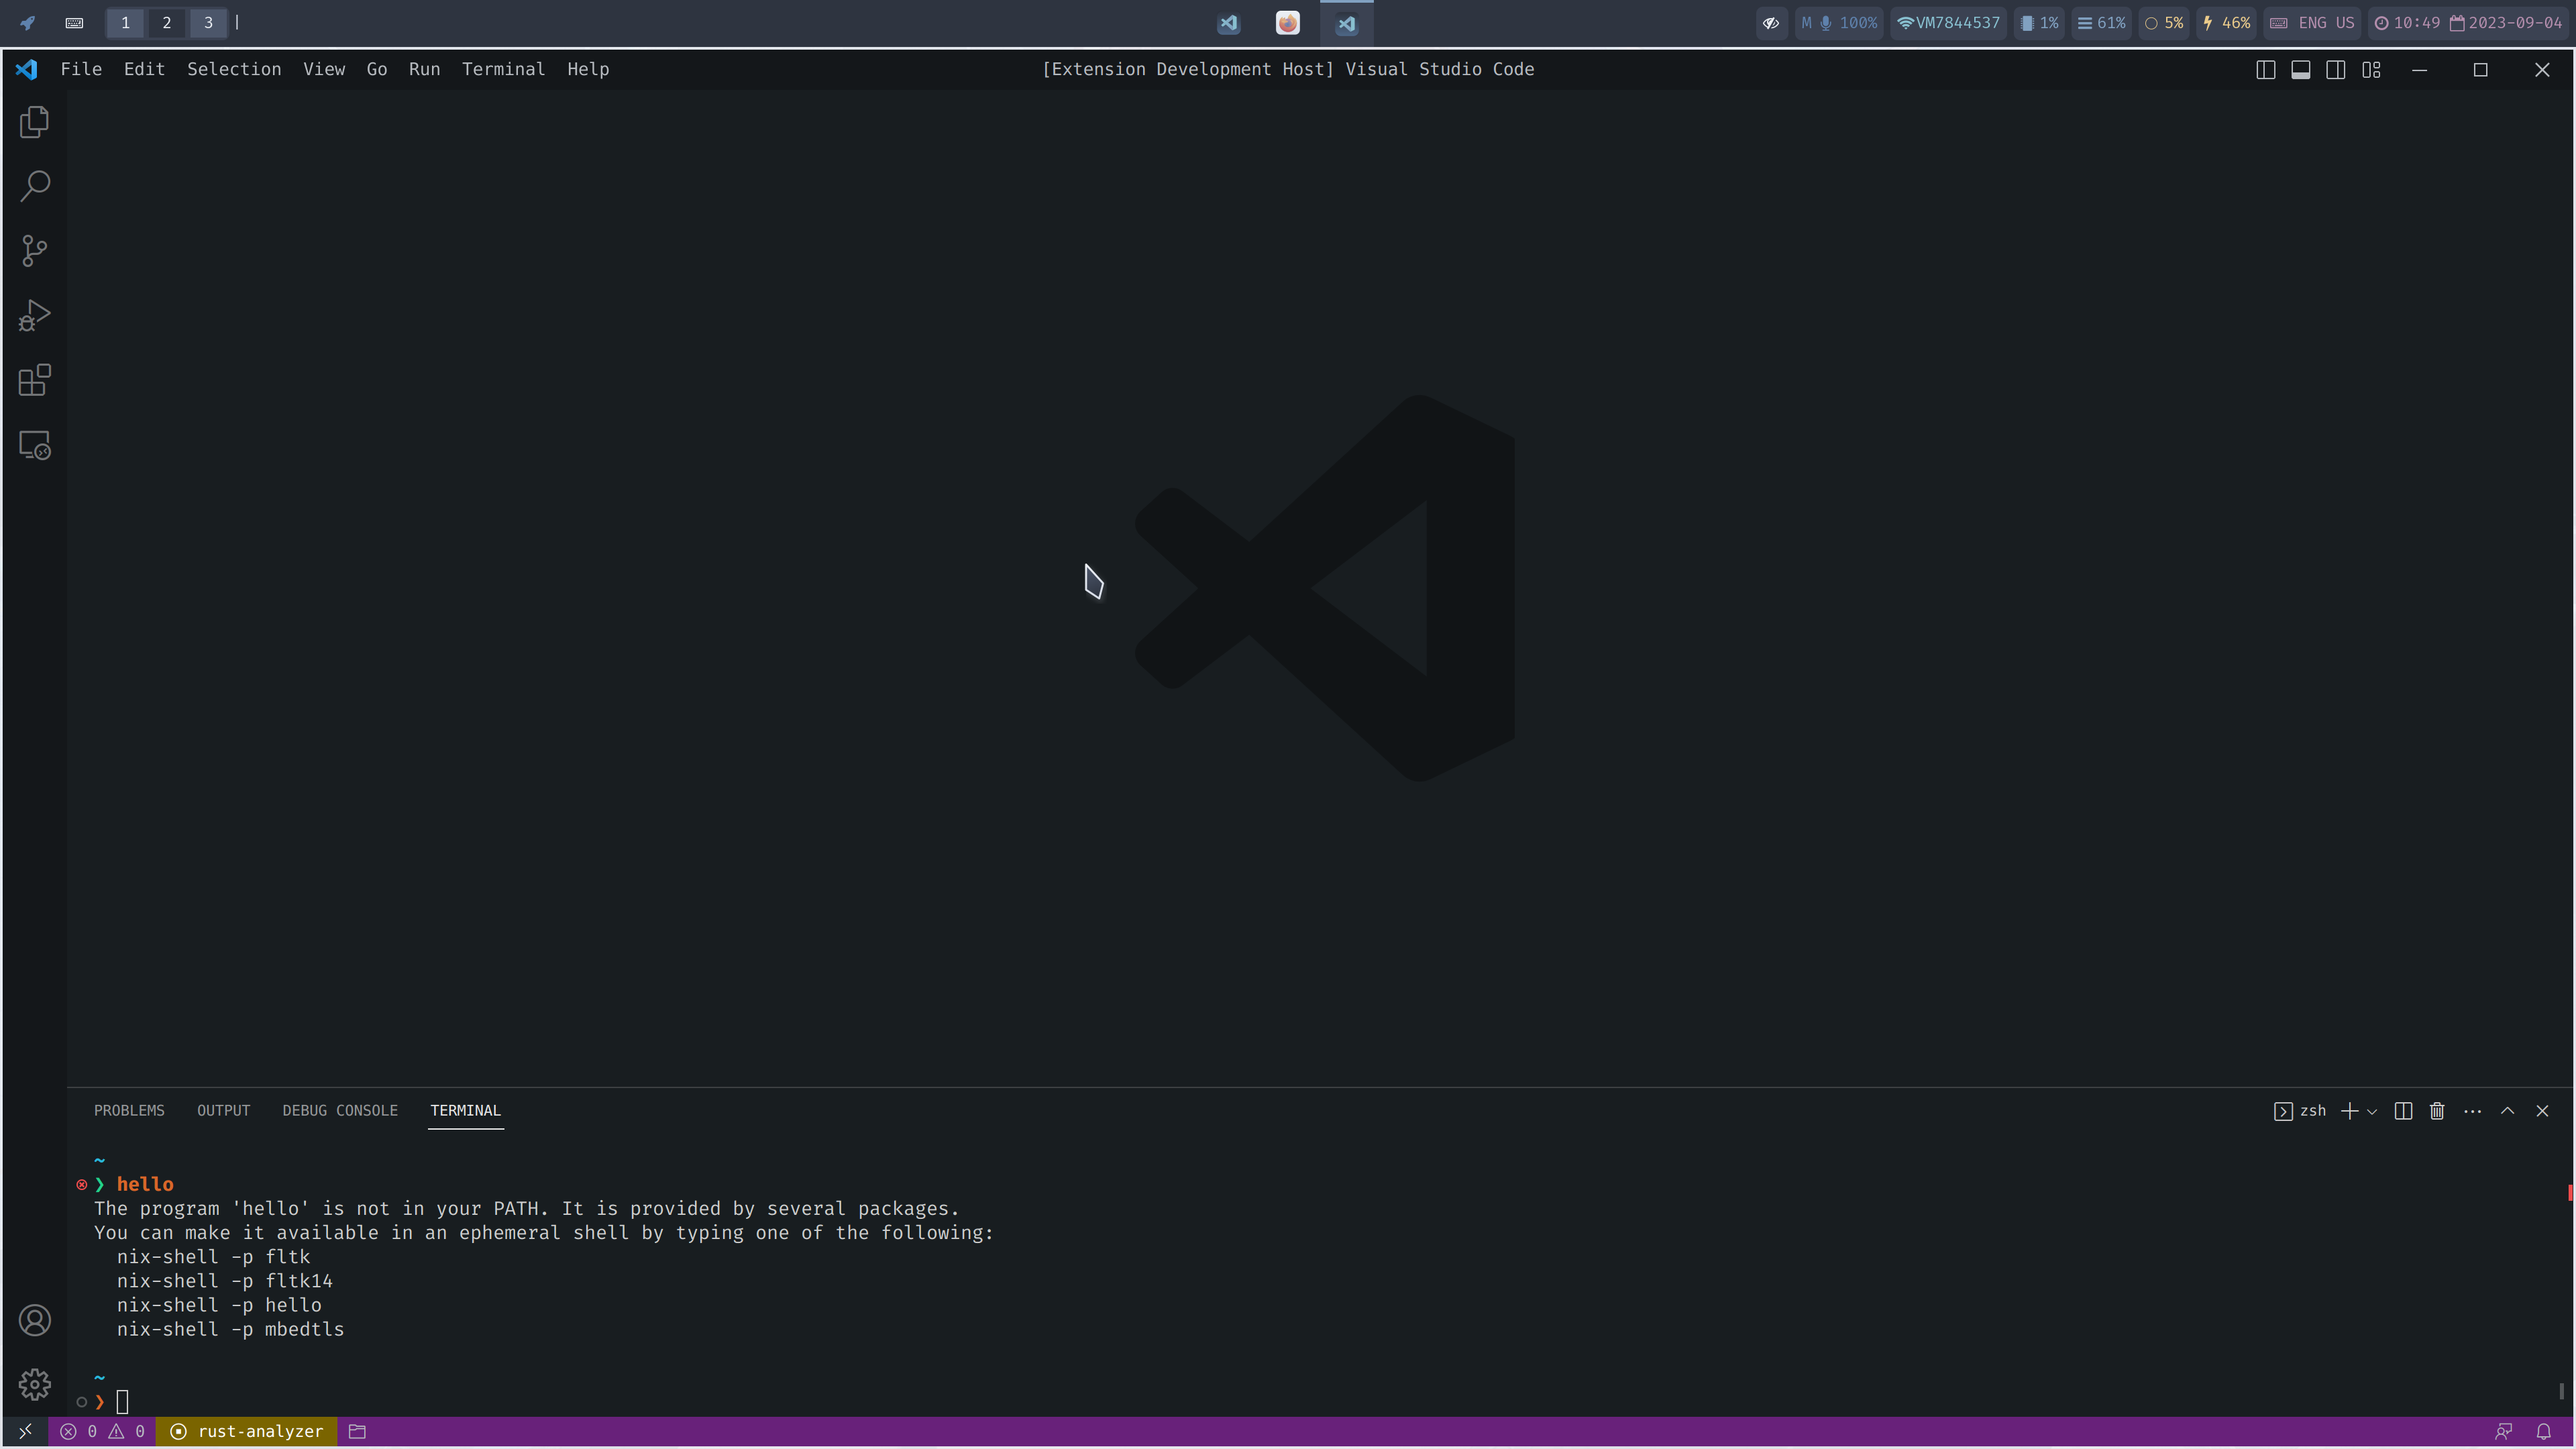
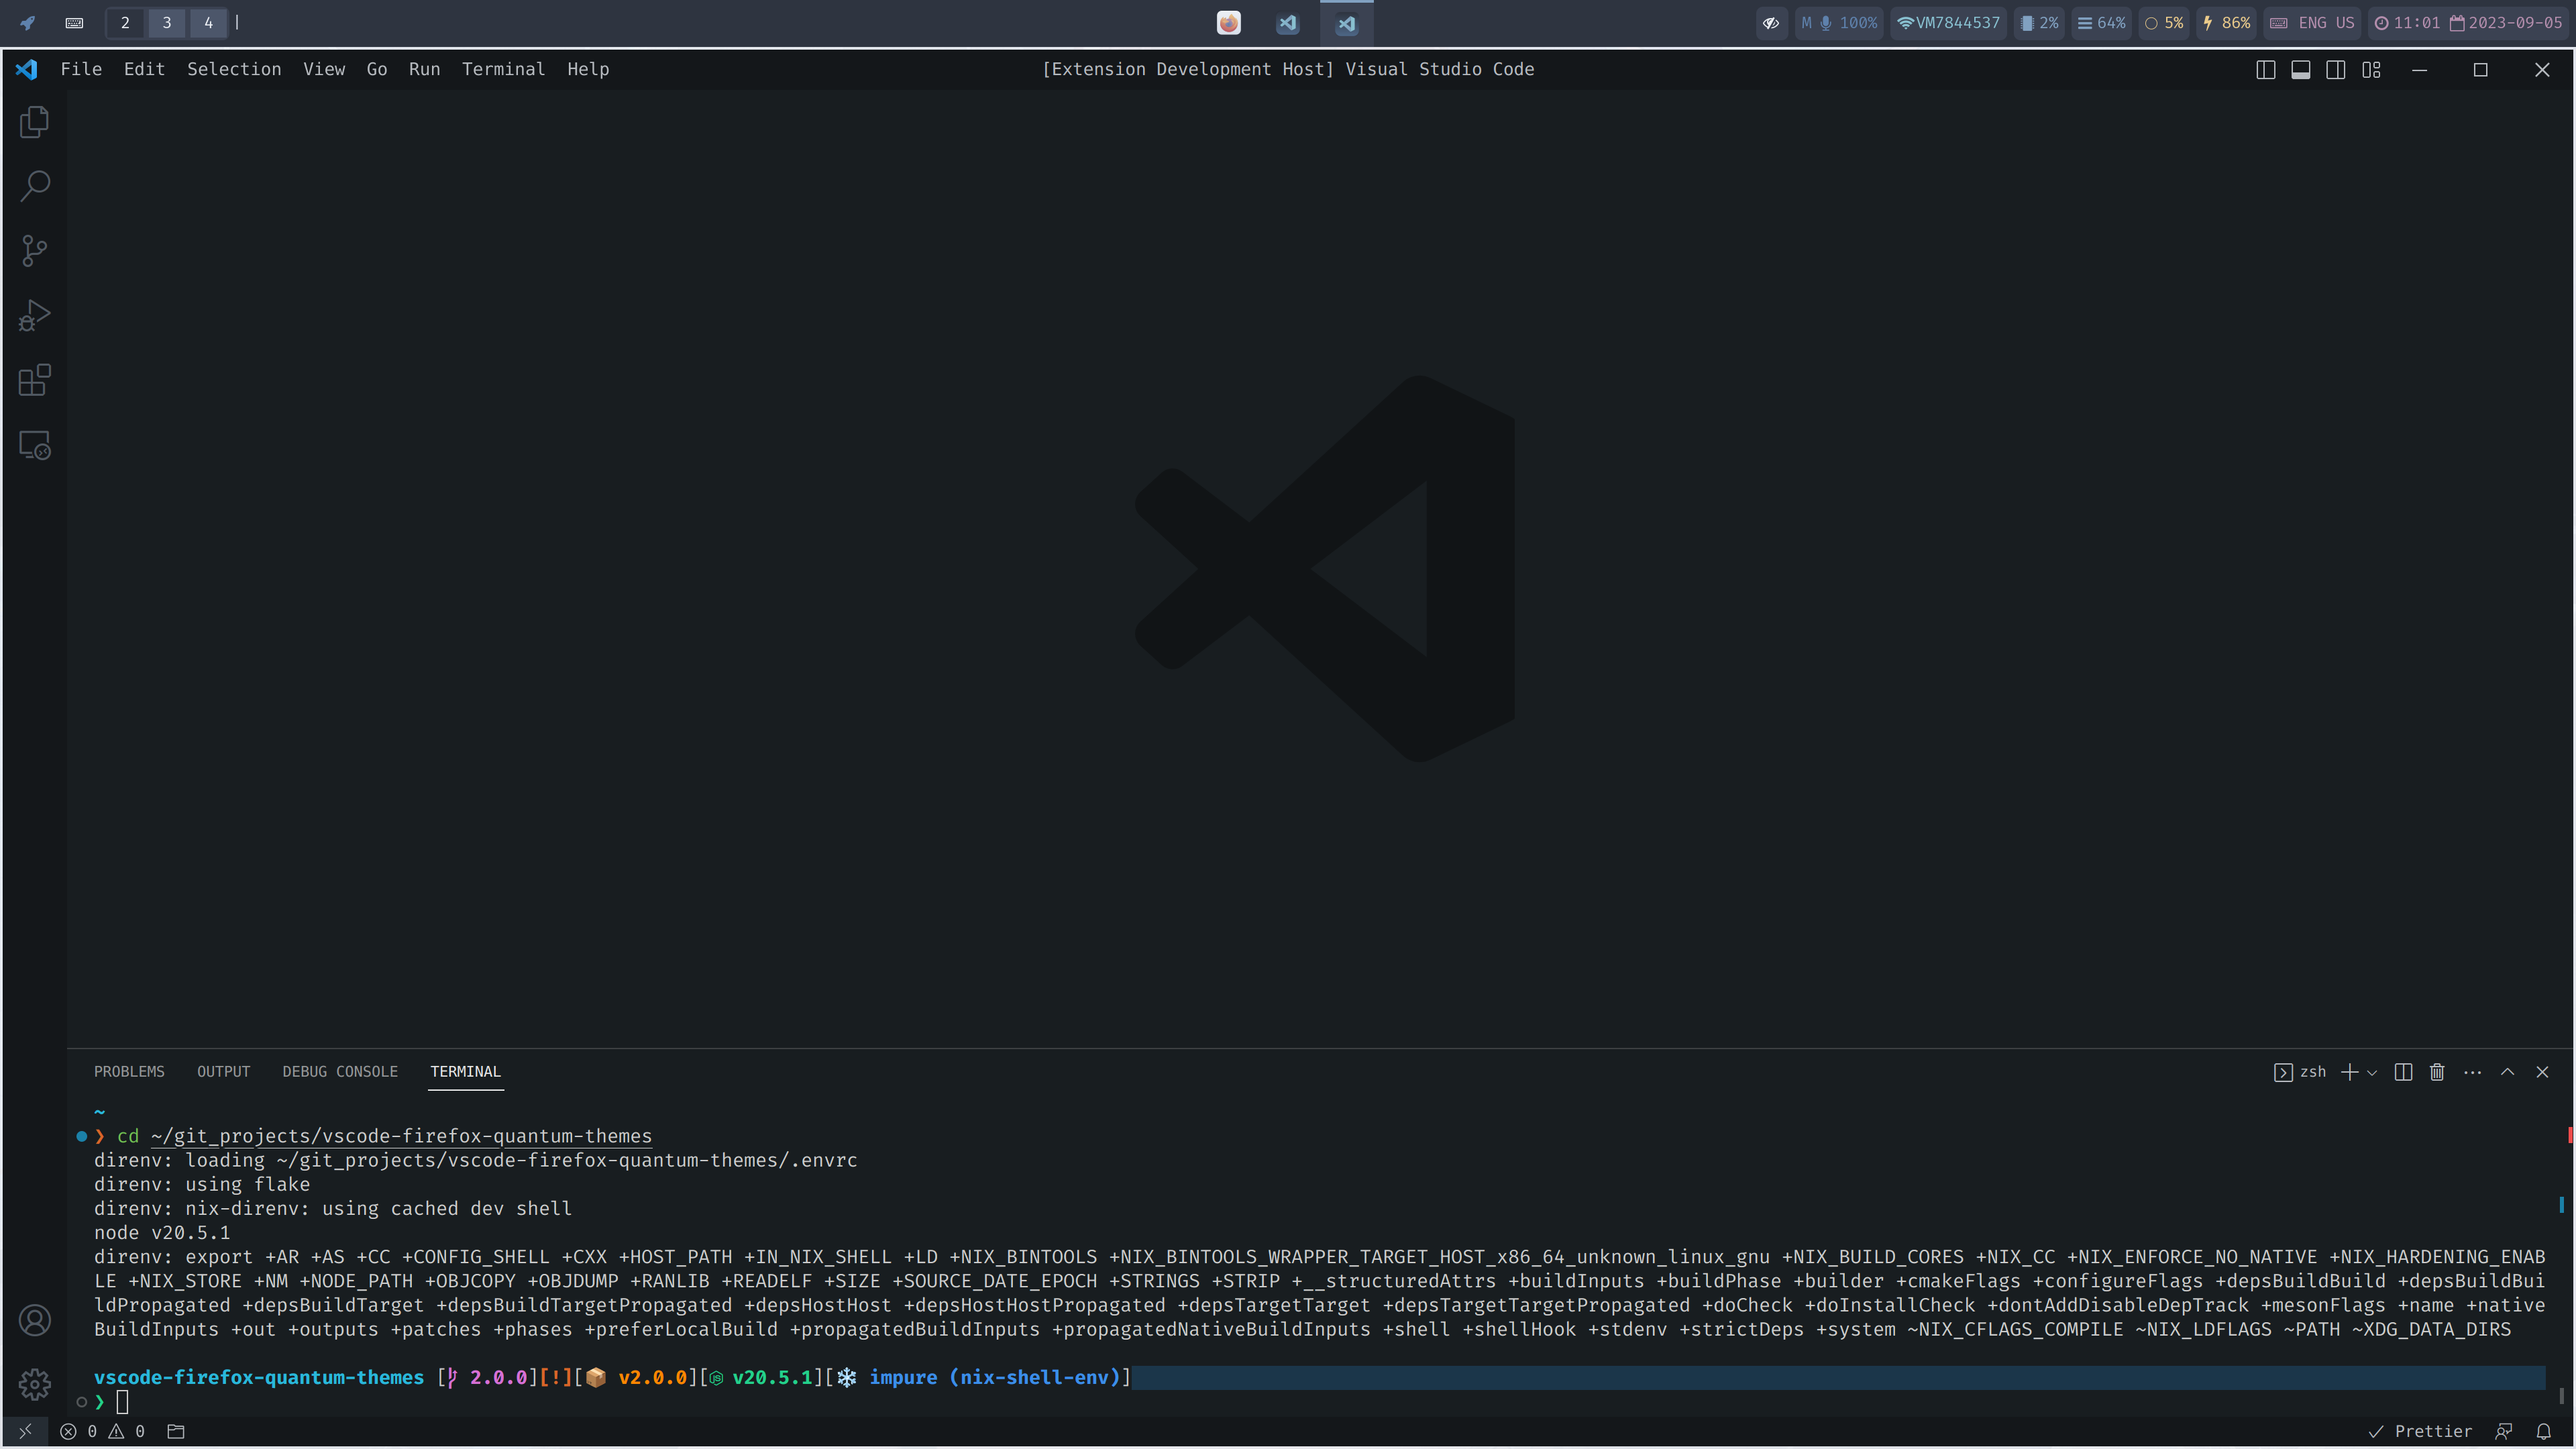
Fix screenshots and some new

diff --git a/scripts/generate.ts b/scripts/generate.ts
@@ -28,16 +28,18 @@ function sortAlphabetically(keys: { [attr: string]: string }): {
   return sorted;
 }
 
+// Generate colors
 coloursattr.forEach(function (element, index) {
   element.forEach(function (attr) {
     generateColours(attr, coloursarray[index]);
   });
 });
 
-//tokenColors
+// Generate tokenColors
 tokenColoursAttr.forEach(function (element, index) {
   generateTokenColours(element.name, element.scope, coloursTokenArray[index]);
 });
+// === BEGIN GENERATION OF CUSTOM COLOURS ===
 
 generateColours("editorBracketMatch.background", coloursarray[1]);
 generateColours("editorBracketMatch.border", comment);
@@ -130,6 +132,8 @@ generateTokenColours(
   ["source.js constant.other.object.key.js string.unquoted.label.js"],
   coloursTokenArray[2]
 );
+// === END COLOUR GENERATION ===
+
 // Making the files
 const paths: string[] = [
   path.resolve(__dirname, "../themes/Quantum Dark.json"),
@@ -149,6 +153,7 @@ qd.tokenColors.forEach((obj) => {
 ql.tokenColors.forEach((obj) => {
   obj.scope = obj.scope.sort();
 });
-// console.log(qd_colors_sorted);
+
+// Write theme files to ./themes
 fs.writeFileSync(paths[0], JSON.stringify(qd, null, "\t"));
 fs.writeFileSync(paths[1], JSON.stringify(ql, null, "\t"));

diff --git a/SCREENSHOTS.md b/SCREENSHOTS.md
@@ -1,52 +1,72 @@
 ## Screenshots:
 
-Here are the latest screenshots of this theme. This is in the layout of `Dark` on the left and `Light` on the right
-Please note, the code presented here is 100% not mine, and was manually typed out from google images. If you recognise a piece of code which you do not want to be displayed, please let me know and I will edit the screenshot.
+Here are the latest screenshots of this theme. This is in the layout of `Dark` on the right and `Light` on the left.
+Please note, the code presented here is 100% not mine, and was copied from open-source projects. All sources to these projects have been credited.
 
-Batch\
-![Batch Screenshot](https://github.com/beastdestroyer/vscode-firefox-quantum-themes/blob/master/screenshots/bat.png)
+### Batch
 
-C\
-![C Screenshot](https://github.com/beastdestroyer/vscode-firefox-quantum-themes/blob/master/screenshots/c.png)
+![Batch Screenshot](./screenshots/bat.png)
 
-C++\
-![C++ Screenshot](https://github.com/beastdestroyer/vscode-firefox-quantum-themes/blob/master/screenshots/cpp.png)
+[Batch code source](https://github.com/Archive-projects/Batch-File-examples/blob/master/files/tf5.bat)
 
-C#\
-![C# Screenshot](https://github.com/beastdestroyer/vscode-firefox-quantum-themes/blob/master/screenshots/cpp.png)
+### C
 
-CSS\
-![CSS Screenshot](https://github.com/beastdestroyer/vscode-firefox-quantum-themes/blob/master/screenshots/css.png)
+![C Screenshot](./screenshots/c.png)
 
-Clojure\
-![Clojure Screenshot](https://github.com/beastdestroyer/vscode-firefox-quantum-themes/blob/master/screenshots/clojure.png)
+### C++
 
-CoffeeScript\
-![CoffeeScript Screenshot](https://github.com/beastdestroyer/vscode-firefox-quantum-themes/blob/master/screenshots/coffee.png)
+![C++ Screenshot](./screenshots/cpp.png)
 
-Dart\
-![Dart Screenshot](https://github.com/beastdestroyer/vscode-firefox-quantum-themes/blob/master/screenshots/dart.png)
+### C#
 
-HTML\
-![HTML Screenshot](https://github.com/beastdestroyer/vscode-firefox-quantum-themes/blob/master/screenshots/html.png)
+![C# Screenshot](./screenshots/cpp.png)
 
-JSON/C\
-![JSON Screenshot](https://github.com/beastdestroyer/vscode-firefox-quantum-themes/blob/master/screenshots/json.png)
+[C# code source](https://github.com/dockersamples/example-voting-app/blob/main/worker/Program.cs)
 
-JavaScript/React\
-![JavaScript Screenshot](https://github.com/beastdestroyer/vscode-firefox-quantum-themes/blob/master/screenshots/js.png)
+### CSS
 
-Markdown\
-![Markdown Screenshot](https://github.com/beastdestroyer/vscode-firefox-quantum-themes/blob/master/screenshots/md.png)
+![CSS Screenshot](./screenshots/css.png)
 
-PHP\
-![PHP Screenshot](https://github.com/beastdestroyer/vscode-firefox-quantum-themes/blob/master/screenshots/php.png)
+### Clojure
 
-SCSS\
-![SCSS Screenshot](https://github.com/beastdestroyer/vscode-firefox-quantum-themes/blob/master/screenshots/scss.png)
+![Clojure Screenshot](./screenshots/clojure.png)
 
-SQL\
-![SQL Screenshot](https://github.com/beastdestroyer/vscode-firefox-quantum-themes/blob/master/screenshots/sql.png)
+### CoffeeScript
 
-TypeScript/React\
-![TypeScript Screenshot](https://github.com/beastdestroyer/vscode-firefox-quantum-themes/blob/master/screenshots/ts.png)
+![CoffeeScript Screenshot](./screenshots/coffee.png)
+
+### Dart
+
+![Dart Screenshot](./screenshots/dart.png)
+
+### HTML
+
+![HTML Screenshot](./screenshots/html.png)
+
+### JSON/C
+
+![JSON Screenshot](./screenshots/json.png)
+
+### JavaScript/React
+
+![JavaScript Screenshot](./screenshots/js.png)
+
+### Markdown
+
+![Markdown Screenshot](./screenshots/md.png)
+
+### PHP
+
+![PHP Screenshot](./screenshots/php.png)
+
+### SCSS
+
+![SCSS Screenshot](./screenshots/scss.png)
+
+### SQL
+
+![SQL Screenshot](./screenshots/sql.png)
+
+### TypeScript/React
+
+![TypeScript Screenshot](./screenshots/ts.png)

diff --git a/CHANGELOG.md b/CHANGELOG.md
@@ -12,6 +12,7 @@ Wow, it finally happened after 1 year.
   - Created function logic to generate `tokenColors` and `colors`.
 - ESLint to lint the TS files. Currently default settings (`recommended`).
 - Added `direnv` and `nix` files for development.
+- Alphabetical sort of all entries (and consequently means every scope in one tokenColor is sorted by category)
 
 ### Updates
 
@@ -23,10 +24,11 @@ Wow, it finally happened after 1 year.
 - Added support for `dockerfile` via the extension `jeff-hykin.better-dockerfile-syntax`.
 - Added limited support for `F#`. Tested with the extension `Ionide for F#: ionide.ionide-fsharp`.
 - Added support for Rust (via `rust-lang.rust-analyzer`) keywords and namespaces.
-- Added limited support for other various inbuilt languages. Everything else is mostly the same.
+- Improved support for other various inbuilt languages. Everything else is mostly the same.
 - Improved theming for the status bar: debuggging, status items etc.
-- No white text on light theme
+- No white text on light theme.
 - Buttons and badges match active theme.
+- Updated screenshots.
 
 ## 1.2.0
 
